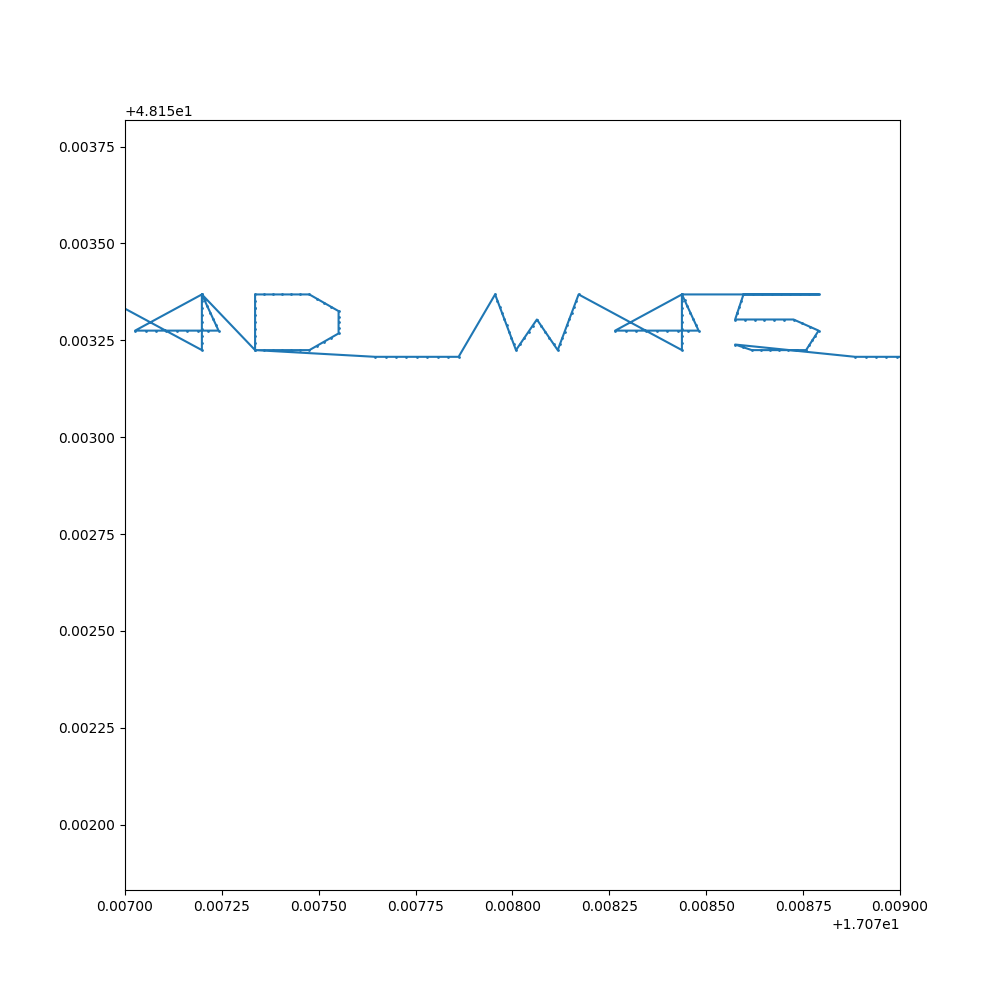
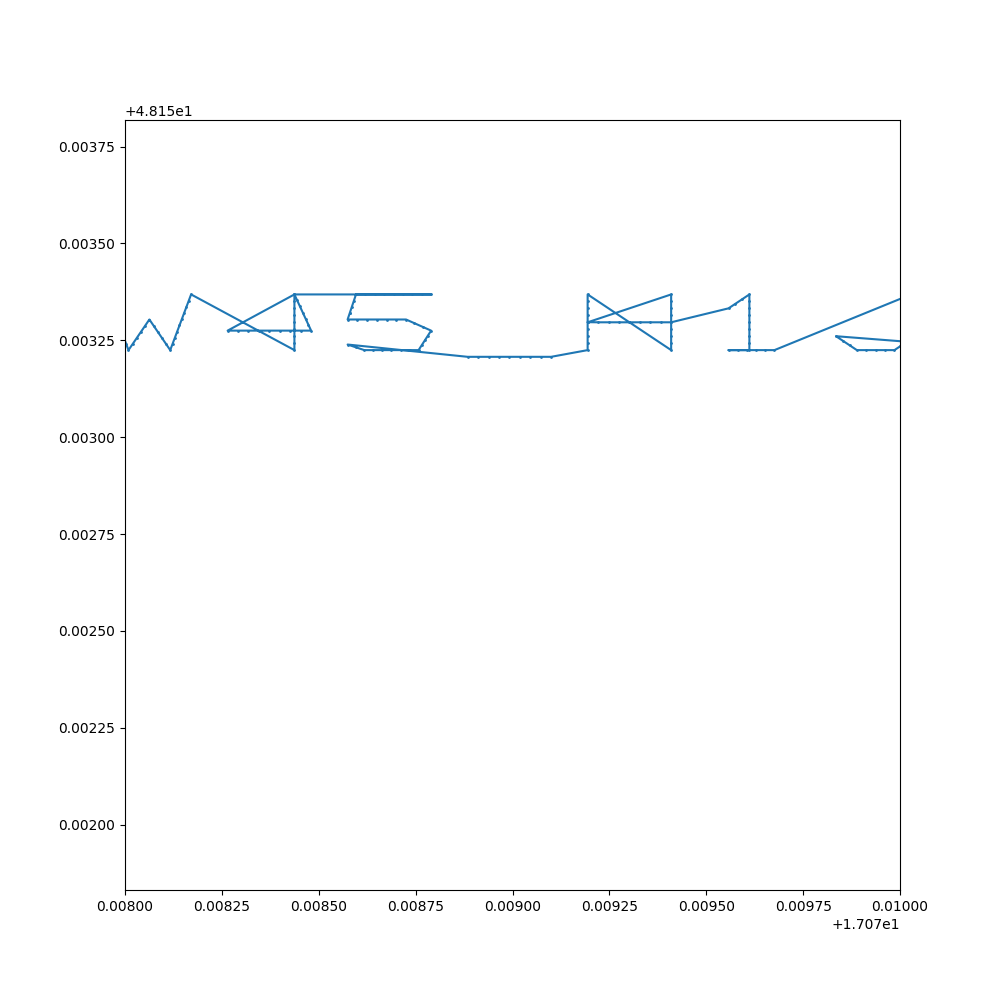
Solve telemetry CTF challenge

Changed region(s): [[0.124, 0.279, 0.899, 0.372], [0.124, 0.899, 0.155, 0.93]]

diff --git a/get_letters.py b/get_letters.py
@@ -9,14 +9,13 @@ with open('points.txt', 'r') as f:
 lats = [p[0] for p in points]
 lons = [p[1] for p in points]
 
-# check left part
 def save_crop(name, xmin, xmax):
-    plt.figure(figsize=(10, 10))
+    plt.figure(figsize=(5, 5))
     plt.plot(lons, lats, marker='.', markersize=2, linestyle='-')
     plt.axis('equal')
     plt.xlim(xmin, xmax)
+    plt.title(name)
     plt.savefig(f'{name}.png')
-    print(f"Saved to {name}.png")
+    print(f"Saved {name}.png")
 
-save_crop('cked_again', 17.0805, 17.082)
-save_crop('h1j_again', 17.079, 17.081)
+save_crop('LET_U2', 17.0766, 17.0772)

diff --git a/test_flag.py b/test_flag.py
@@ -1,0 +1,1 @@
+# the plot of H1J4CK3D is actually: H1J4CKED
